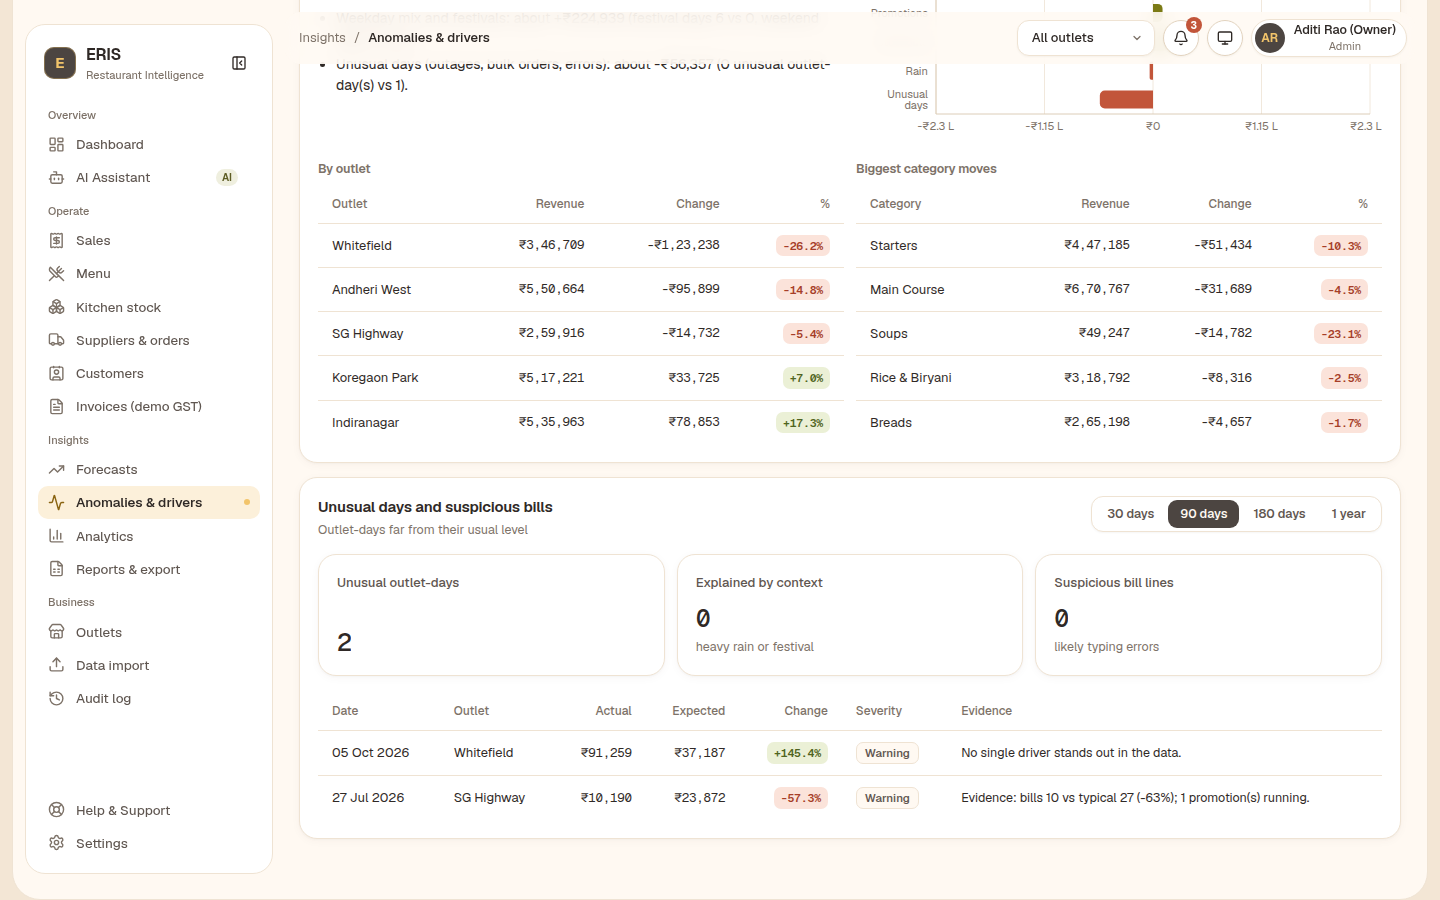
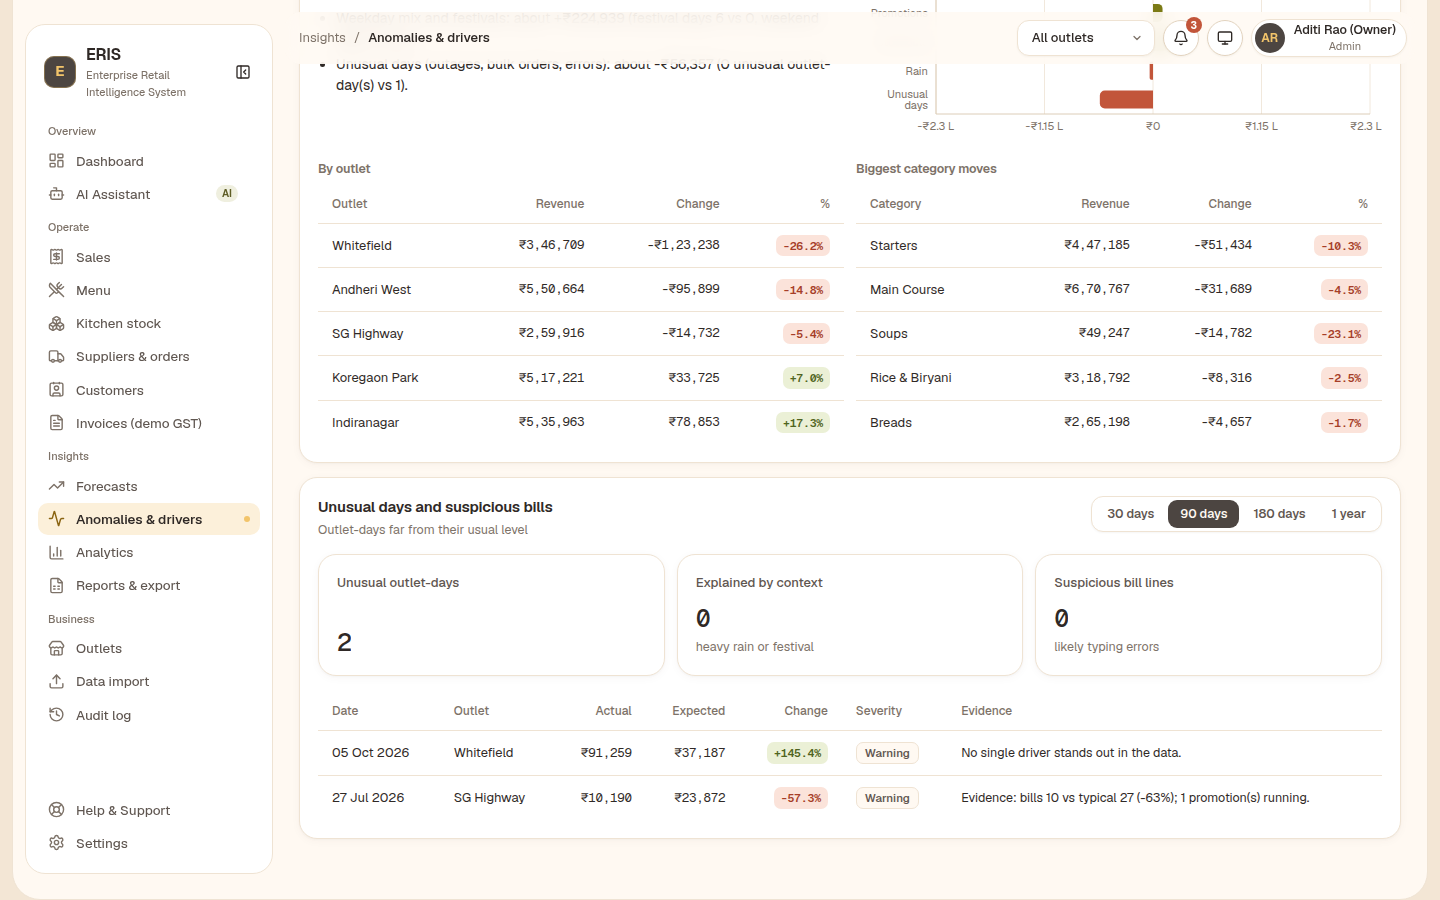
Rename product to Enterprise Retail Intelligence System; refresh screenshots
The product name is now Enterprise Retail Intelligence System in the README
title, the sidebar brand and the page title. The dataset is unchanged: one
restaurant chain (Saffron Table) with five outlets by default.

Screenshots are regenerated so the sidebar shows the new name.

Claude-Session: https://claude.ai/code/session_01JBgM8KvT56w33mqkfgPQXH

diff --git a/web/src/components/Layout.jsx b/web/src/components/Layout.jsx
@@ -182,7 +182,7 @@ export default function Layout() {
       <nav className={`sidebar ${open ? 'open' : ''}`} aria-label="Main">
         <div className="brand">
           <div className="brand-mark">E</div>
-          <div className="brand-text"><b>ERIS</b><small>Restaurant Intelligence</small></div>
+          <div className="brand-text"><b>ERIS</b><small>Enterprise Retail Intelligence System</small></div>
           <button className="btn ghost sm icon collapse-btn" onClick={toggle} aria-label={collapsed ? 'Expand sidebar' : 'Collapse sidebar'}
             title={collapsed ? 'Expand sidebar' : 'Collapse sidebar'}>{collapsed ? <PanelLeftOpen /> : <PanelLeftClose />}</button>
         </div>

diff --git a/web/index.html b/web/index.html
@@ -5,7 +5,7 @@
     <meta name="viewport" content="width=device-width, initial-scale=1.0" />
     <meta name="description" content="ERIS - Enterprise Retail Intelligence System" />
     <link rel="icon" type="image/svg+xml" href="/favicon.svg" />
-    <title>ERIS - Retail Intelligence</title>
+    <title>ERIS - Enterprise Retail Intelligence System</title>
     <script>
       try { const t = localStorage.getItem('eris-theme'); if (t) document.documentElement.dataset.theme = t } catch (e) {}
     </script>

diff --git a/README.md b/README.md
@@ -1,4 +1,4 @@
-# ERIS: Enterprise Restaurant Intelligence System
+# ERIS: Enterprise Retail Intelligence System
 
 ERIS is an open-source **intelligence and decision-support platform for a restaurant chain** running several
 outlets (five by default, up to seven). It brings together:
